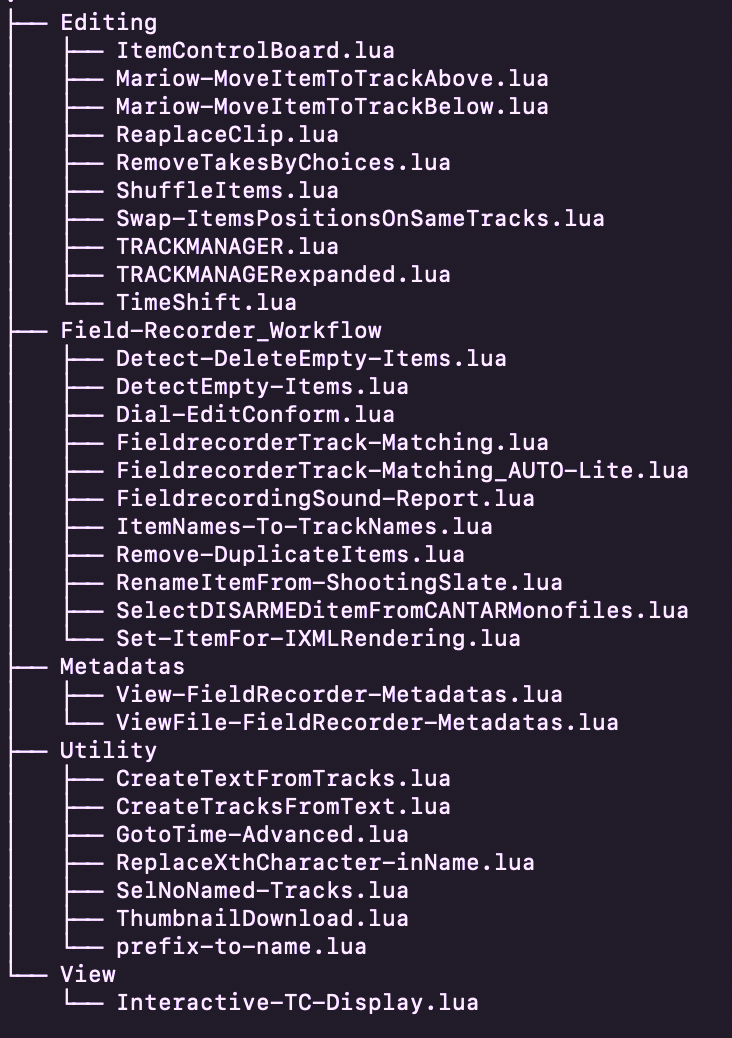
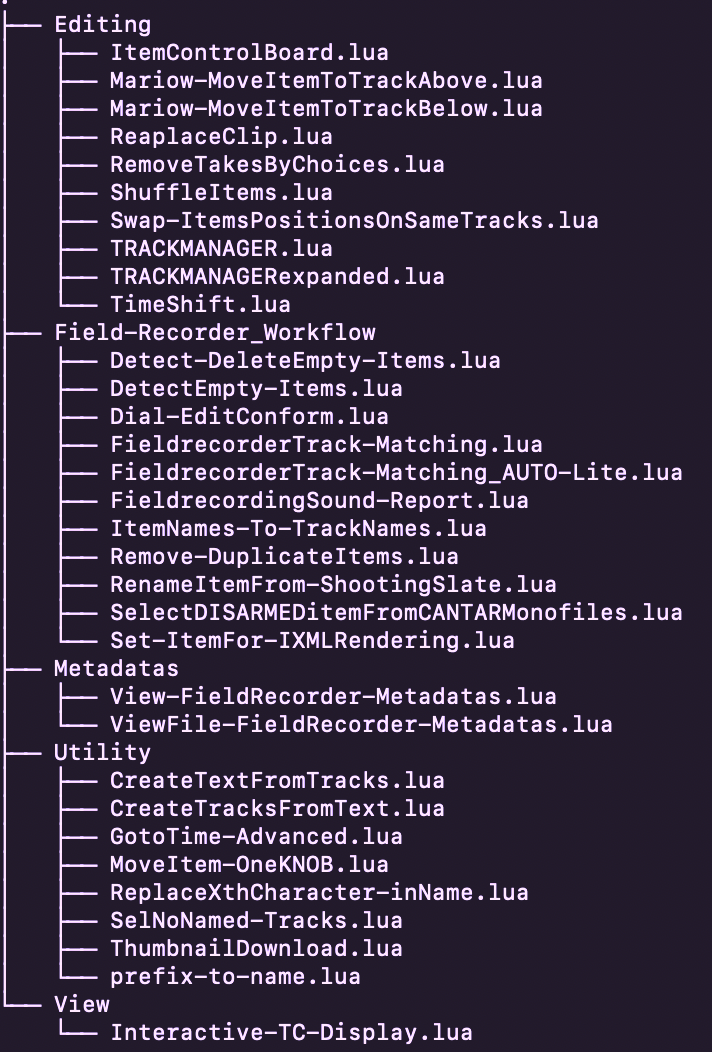
MAJ ONE KNOB

Changed region(s): [[0.0, 0.0, 0.9579, 1.0]]

diff --git a/README.md b/README.md
@@ -408,7 +408,17 @@ Batch Re-naming selected Items with a prefix for a better Workflow and sorting
   5. Press **Go** to move the edit cursor, or **Play** to start playback.  
   6. Optionally, check **Make Time Selection** to create a time selection from cursor to target time.  
 
- 
+---
+## 6. **MoveItem-OneKNOB**
+(https://github.com/Geeksound/Reaper_Scripts-Mariow/blob/main/Utility/MoveItem-OneKNOB.lua)  
+Move Item UP/Down with One Knob
+
+<p align="center">
+  <img src="PICTURES/MoveItem-OneKNOB.png" alt="Overview of 'MoveItem-OneKNOB'" width="500" />
+</p>   
+
+### TIPS
+- **If no tracks Below** move Item Down create a new Track based on Item Name
 
 -------------------------------------------------
 `- View/---------`
